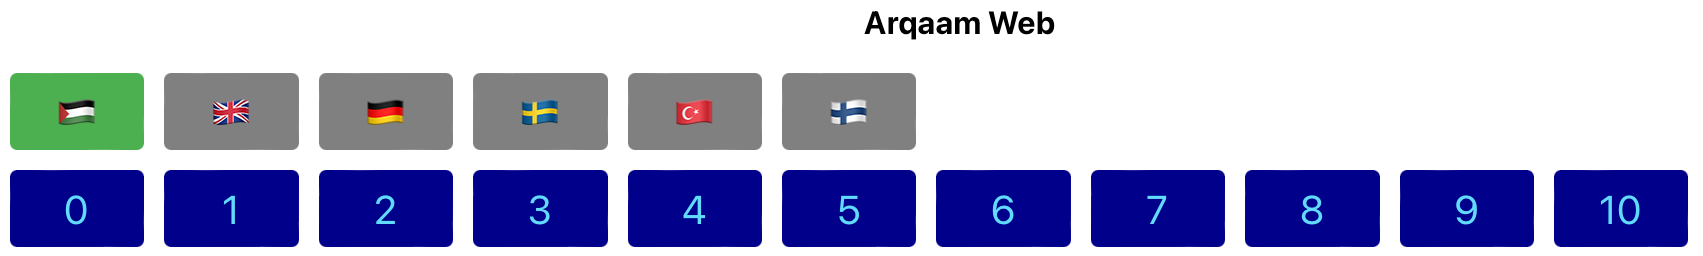
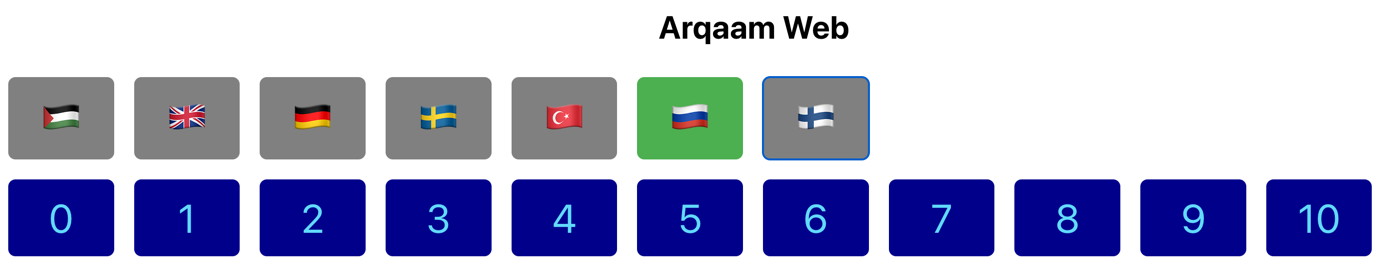
enhance README

diff --git a/README.md b/README.md
@@ -2,7 +2,6 @@
 # Arqaam
 
 Small react project to pronounce number from zero to ten in several languages.
-
 ![img.png](img.png)
 
 ## Languages supported
@@ -10,20 +9,39 @@ Small react project to pronounce number from zero to ten in several languages.
 - English
 - German
 - Swedish
+- Russian
 - Finnish
 - We are looking for more languages see How to contribute
 
 ## How to contribute
-All what is needed is 12 sound files in ACC format, 1 for the name of the language and other 11 for the numbers from 0 to 10.
-
+### Media files
+All what is needed to support new language is 12 sound files in ACC format, 1 for the name of the language and other 11 for the numbers from 0 to 10.
+#### What is needed
+- A Common Creative sound files to replace some of the current not so good languages
+- New sound files for new language to be supported
+### Coding
+Arqaam is open source project, build on NextJS 13, typescript v4.9.x and yarn 1.x
+All the code is Frontend, no backend needed.
+#### Setup environment
+- Node 18.x or above
+- yarn classic 1.x `npm i -g yarn`
+- Install `yarn i`
+- Build: `yarn build`
+- Start: `yarn start`
+### What is needed
+- Support Farsi 🇮🇷, French 🇫🇷, Chinese 🇨🇳, Spanish 🇪🇸
+- CSS styling so website nicely aligned in all platform.
+- Better quality sound files.
+- Support offline mode.
+### Deploying
+Once PR merged to main branch it automatically deployed using Vercel integration tool with GitHub
 
 ## Credits
 ### For sound
 - Arabic: [https://ttsfree.com/text-to-speech/arabic]()
 - English: [https://archive.org/details/numbers0-100englishpronouciation/]()
-- German: [Wikitionary DE](https://de.wiktionary.org/)
+- German: [Wiktionary DE](https://de.wiktionary.org/)
 - Swedish: [Wikimedia Commons](https://commons.wikimedia.org/)
 - Turkish: [www.ttsfree.com](https://ttsfree.com/text-to-speech/turkish-turkey)
 - Finnish: [www.ttsfree.com](https://ttsfree.com/text-to-speech/finnish-finland#google_vignette)
-- Russian: [Wikitionary RU](https://ru.wiktionary.org/)
- 
+- Russian: [Wiktionary RU](https://ru.wiktionary.org/)
